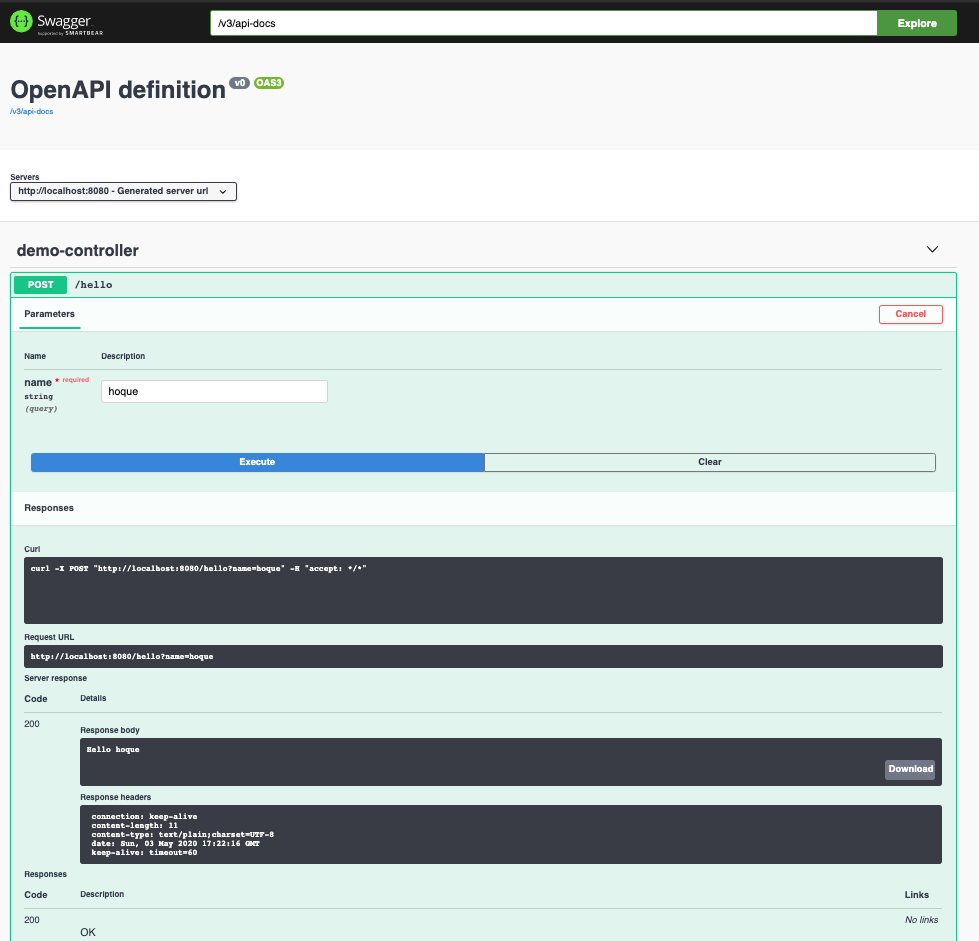
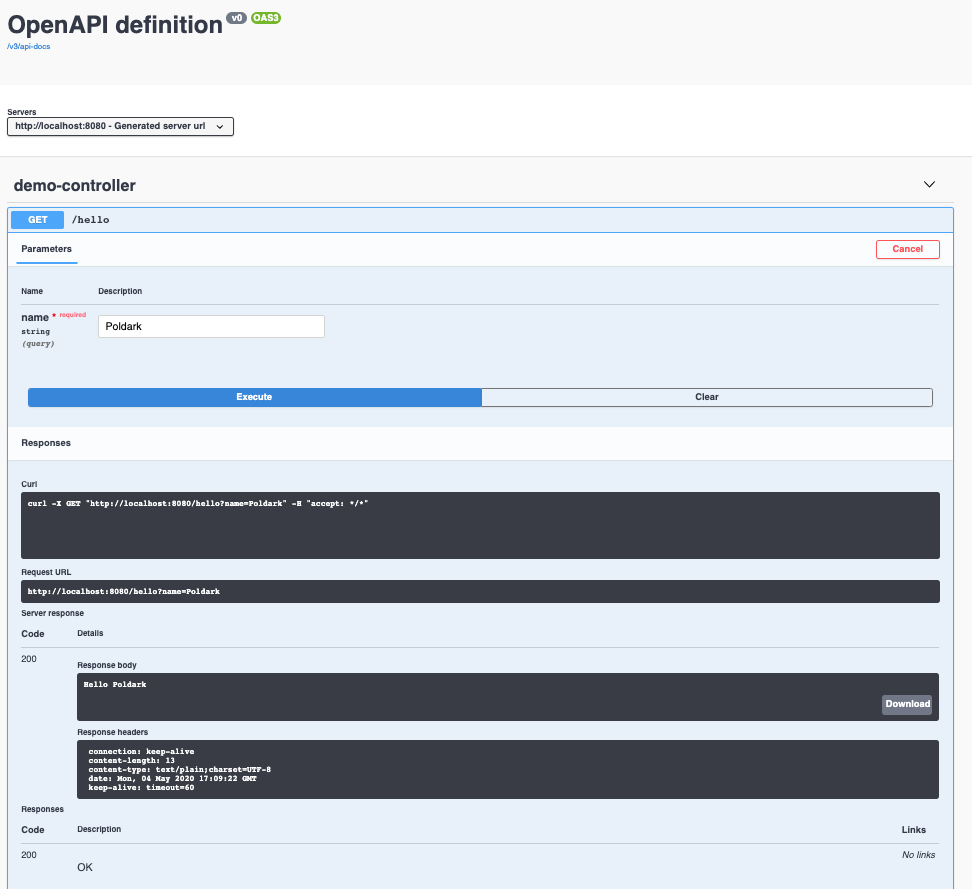
Add Swagger Request Validator demo

Changed region(s): [[0.0, 0.0, 1.0, 1.0]]

diff --git a/swagger-demo/src/main/java/org/hoque/demo/OpenApiValidationConfig.java b/swagger-demo/src/main/java/org/hoque/demo/OpenApiValidationConfig.java
@@ -1,0 +1,43 @@
+package org.hoque.demo;
+
+import com.atlassian.oai.validator.springmvc.OpenApiValidationFilter;
+import com.atlassian.oai.validator.springmvc.OpenApiValidationInterceptor;
+import org.springframework.beans.factory.annotation.Autowired;
+import org.springframework.beans.factory.annotation.Value;
+import org.springframework.context.annotation.Bean;
+import org.springframework.context.annotation.Configuration;
+import org.springframework.core.io.Resource;
+import org.springframework.core.io.support.EncodedResource;
+import org.springframework.web.servlet.config.annotation.InterceptorRegistry;
+import org.springframework.web.servlet.config.annotation.WebMvcConfigurerAdapter;
+
+import javax.servlet.Filter;
+import java.io.IOException;
+
+@Configuration
+public class OpenApiValidationConfig extends WebMvcConfigurerAdapter {
+
+    private final OpenApiValidationInterceptor validationInterceptor;
+
+    /**
+     * @param apiSpecification the {@link Resource} to your OpenAPI / Swagger schema
+     */
+    @Autowired
+    public OpenApiValidationConfig(@Value("classpath:api.yaml") final Resource apiSpecification) throws IOException {
+        final EncodedResource specResource = new EncodedResource(apiSpecification, "UTF-8");
+        this.validationInterceptor = new OpenApiValidationInterceptor(specResource);
+    }
+
+    @Bean
+    public Filter validationFilter() {
+        return new OpenApiValidationFilter(
+                true, // enable request validation
+                true  // enable response validation
+        );
+    }
+
+    @Override
+    public void addInterceptors(final InterceptorRegistry registry) {
+        registry.addInterceptor(validationInterceptor);
+    }
+}

diff --git a/swagger-demo/src/main/java/org/hoque/demo/DemoController.java b/swagger-demo/src/main/java/org/hoque/demo/DemoController.java
@@ -1,6 +1,9 @@
 package org.hoque.demo;
 
-import org.springframework.web.bind.annotation.PostMapping;
+import javax.validation.Valid;
+import javax.validation.constraints.Size;
+
+import org.springframework.web.bind.annotation.GetMapping;
 import org.springframework.web.bind.annotation.RequestMapping;
 import org.springframework.web.bind.annotation.RequestParam;
 import org.springframework.web.bind.annotation.RestController;
@@ -9,8 +12,8 @@ import org.springframework.web.bind.annotation.RestController;
 @RequestMapping("/")
 public class DemoController {
     
-    @PostMapping("hello")
-    public String hello(@RequestParam("name") String name){
+    @GetMapping("hello")
+    public String hello(@RequestParam("name") @Size(min = 5, max = 20) final String name) {
         return "Hello " + name;
     }
 

diff --git a/swagger-demo/README.md b/swagger-demo/README.md
@@ -1,19 +1,26 @@
 # Swagger UI Demo
 
-
-
-1. Clone project `git clone https://github.com/ahoqueali/ahoqueali.github.io`
+1. Git clone [project](https://github.com/ahoqueali/ahoqueali.github.io/tree/master/swagger-demo) `git clone https://github.com/ahoqueali/ahoqueali.github.io`
 2. Cd into swagger-demo
 3. Start demo app `./gradlew bootRun`
+4. Go to Swagger UI [http://localhost:8080/swagger-ui.html](http://localhost:8080/swagger-ui.html) and clink on the `Try it out` button
+5. Type a name that has more than 5 characters and click on the `execute` button
 
-The URLs below allow access to the UI and Swagger Specs
-
-4. Swagger UI [http://localhost:8080/swagger-ui.html](http://localhost:8080/
-swagger-ui.html)
-5. JSON Swagger Spec [http://localhost:8080/v3/api-docs/](http://localhost:8080/v3/api-docs/)
-6. YAML Swagger Spec [http://localhost:8080/v3/api-docs.yaml](http://localhost:8080/v3/api-docs.yaml)
+The URLs below allow access to the Swagger Specs
+6. JSON Swagger Spec [http://localhost:8080/v3/api-docs/](http://localhost:8080/v3/api-docs/)
+7. YAML Swagger Spec [http://localhost:8080/v3/api-docs.yaml](http://localhost:8080/v3/api-docs.yaml)
 
 ![alt text](./swagger-ui-demo.png "Swagger UI Demo")
 
+# Swagger Request Validator Demo
+
+7. Whilst the  demo app is running, open a terminal and execute the following curl command `curl http://localhost:8080/hello\?name\=Ross`
+8. The message below will be shown.. The error is produced by the Swagger Request Validator after intercepting the request as the name cannot be less than 5 chars
+
+![alt text](./swagger-request-validator.png "Swagger Request Validator Demo")
+
+See [source](https://github.com/ahoqueali/ahoqueali.github.io/tree/master/swagger-demo) for implementation details.
+
 ## Reference
-[Documenting a Spring REST API Using OpenAPI 3.0](https://www.baeldung.com/spring-rest-openapi-documentation)
+1. [Documenting a Spring REST API Using OpenAPI 3.0](https://www.baeldung.com/spring-rest-openapi-documentation)
+2. [Swagger Request Validator](https://bitbucket.org/atlassian/swagger-request-validator/src/master/swagger-request-validator-springmvc/)

diff --git a/README.md b/README.md
@@ -4,4 +4,4 @@ My how to guide..
   
 1. [How to map objects to relational tables](https://ahoque.org/object-relational-mapping)
 2. [Representational State Transfer (REST) API](https://ahoque.org/rest-api)
-3. [Swagger UI demo](https://ahoque.org/swagger-demo)
+3. [Swagger UI and Swagger Request Validator demo](https://ahoque.org/swagger-demo)
